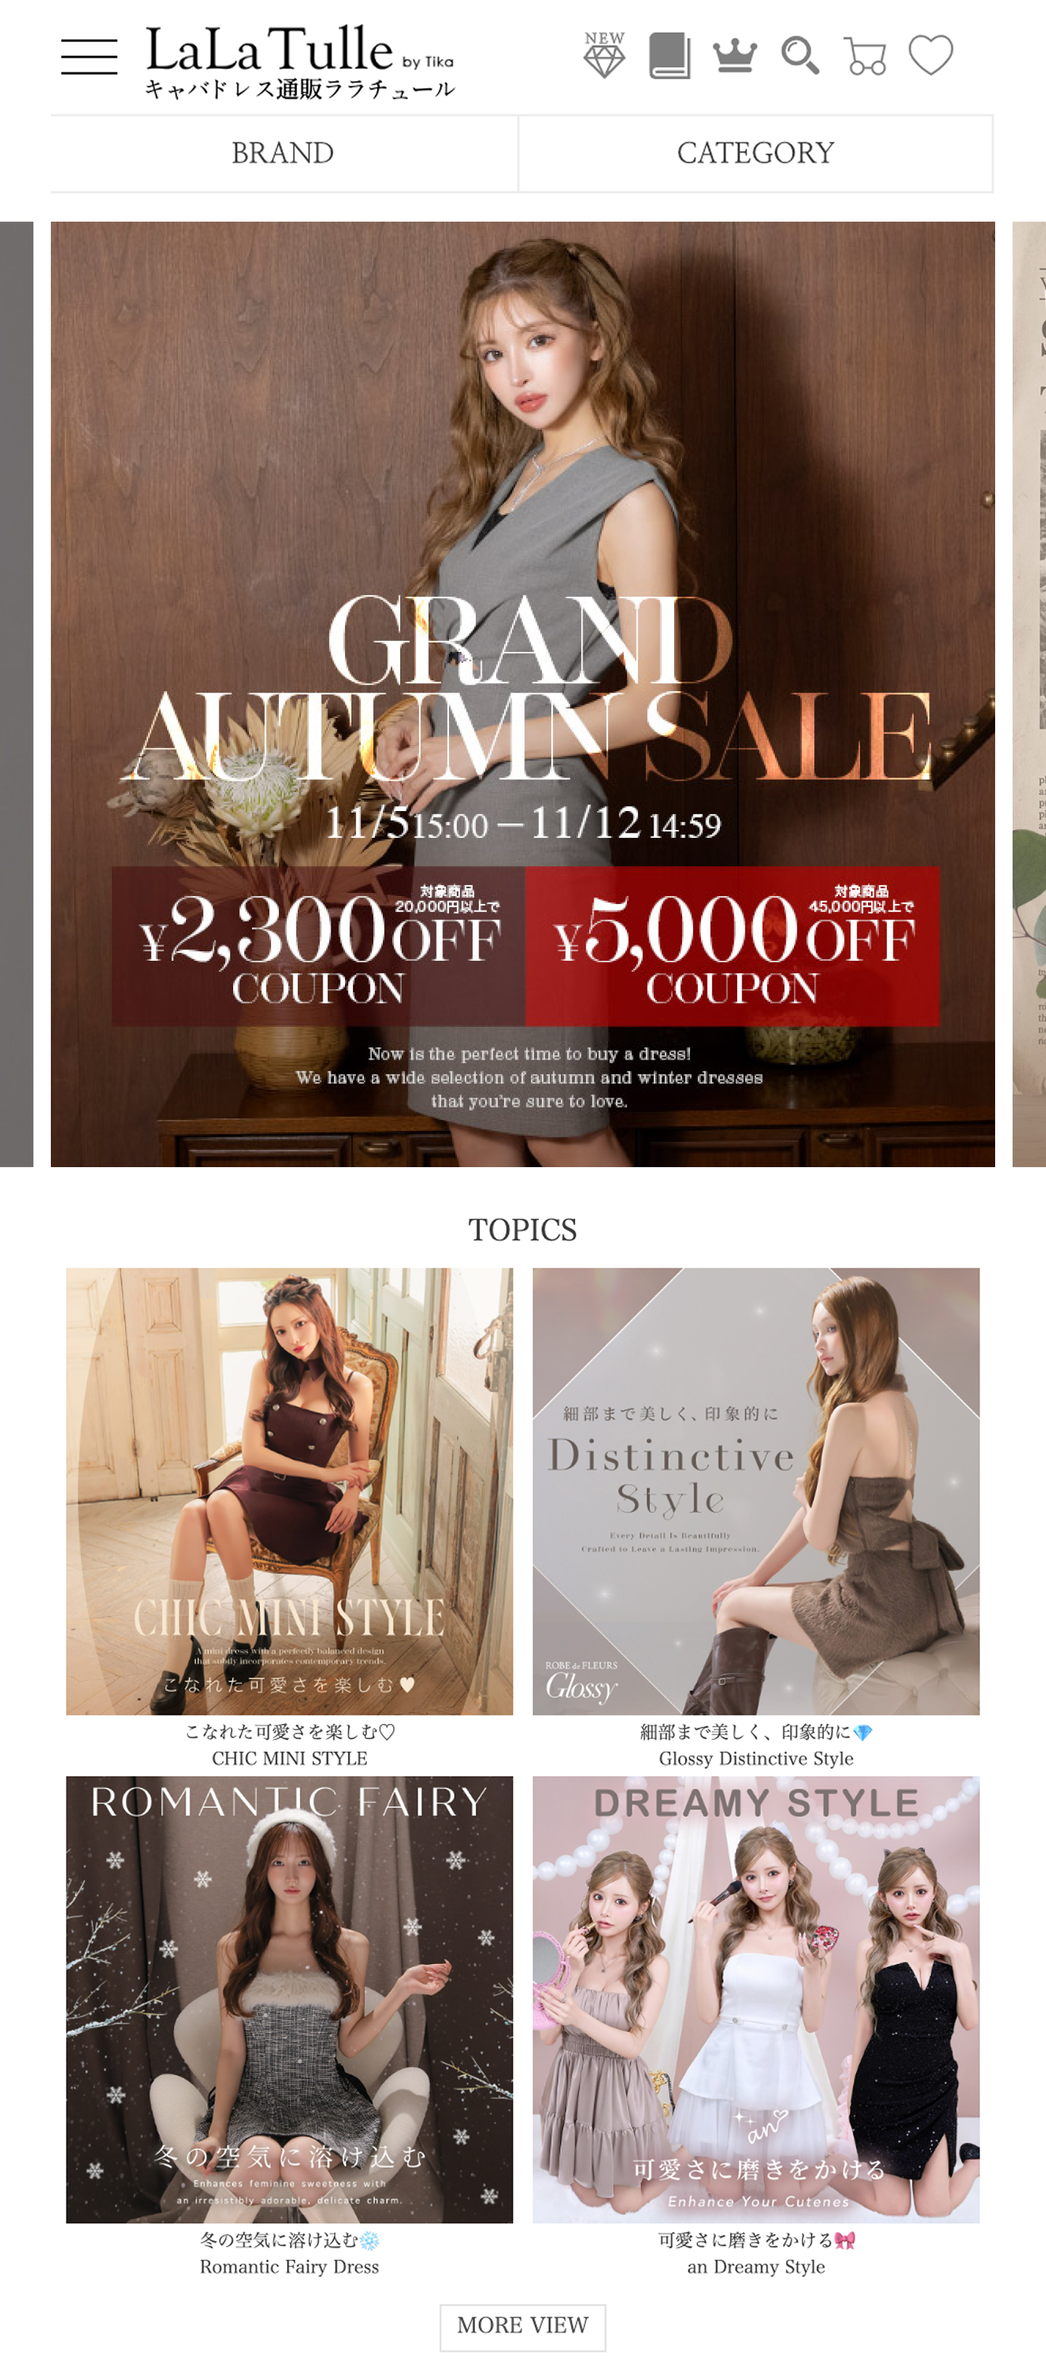
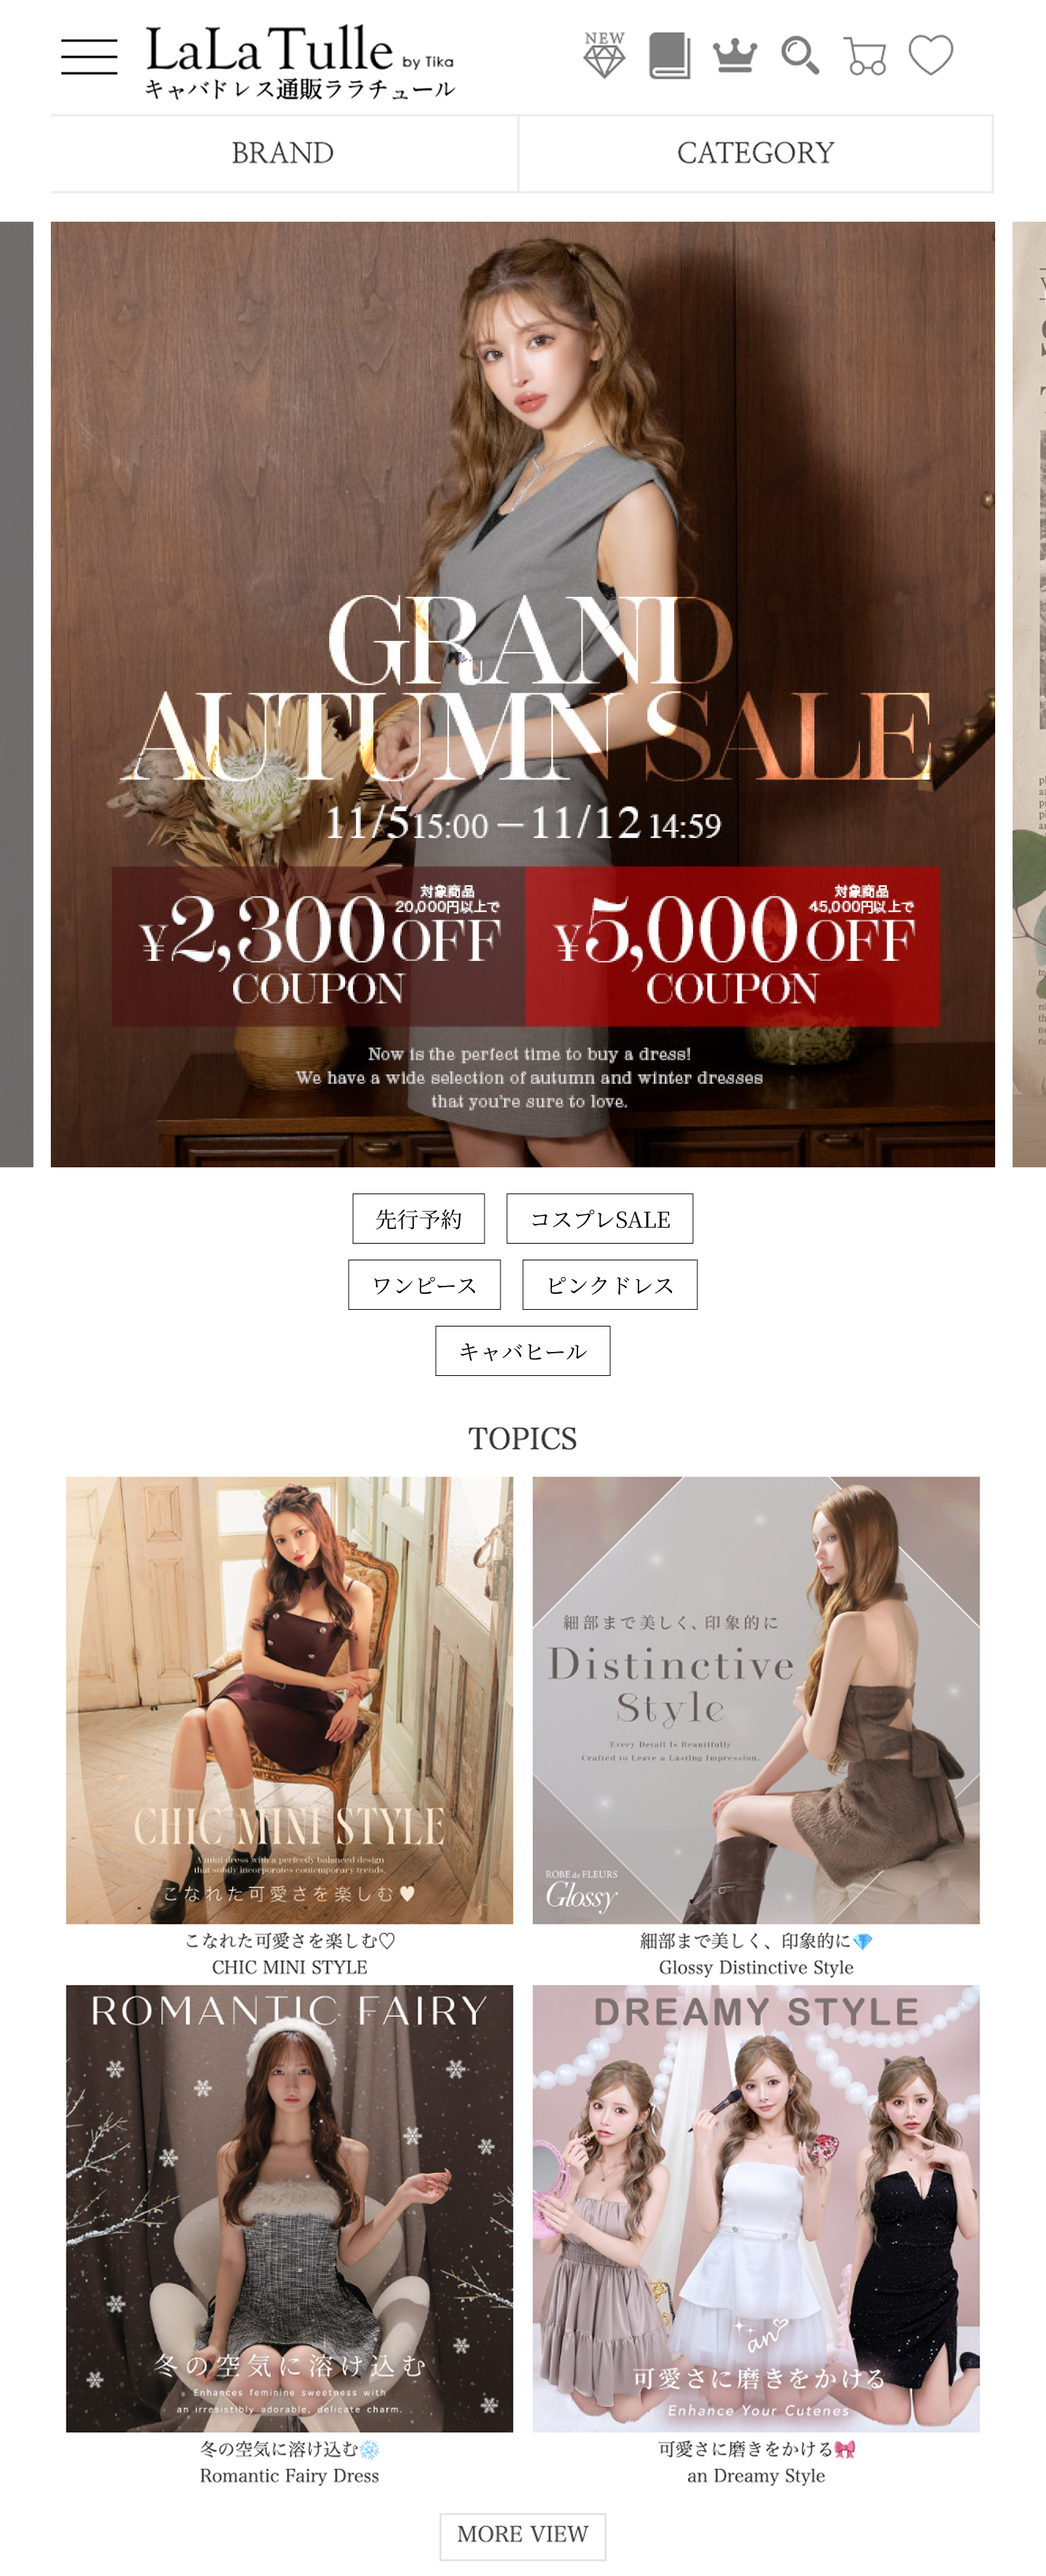
Replace LaLaTulle before comparison with supplied image

diff --git a/lalatulle.html b/lalatulle.html
@@ -168,7 +168,7 @@
 <div class="ln-home-pair">
   <figure>
     <figcaption class="ln-comparison-label">BEFORE</figcaption>
-    <div class="ln-home-composition"><img src="assets/lalatulle/home-comparison-before-20261115.png" alt="Original LaLaTulle homepage with a large sale banner above the topics section" width="1440" height="3257" loading="lazy" decoding="async" /></div>
+    <div class="ln-home-composition"><img src="assets/lalatulle/home-comparison-before-20261115.png?v=2" alt="Original LaLaTulle homepage with a large sale banner, quick links, and the topics section" width="1440" height="3544" loading="lazy" decoding="async" /></div>
   </figure>
   <figure>
     <figcaption class="ln-comparison-label">AFTER</figcaption>
